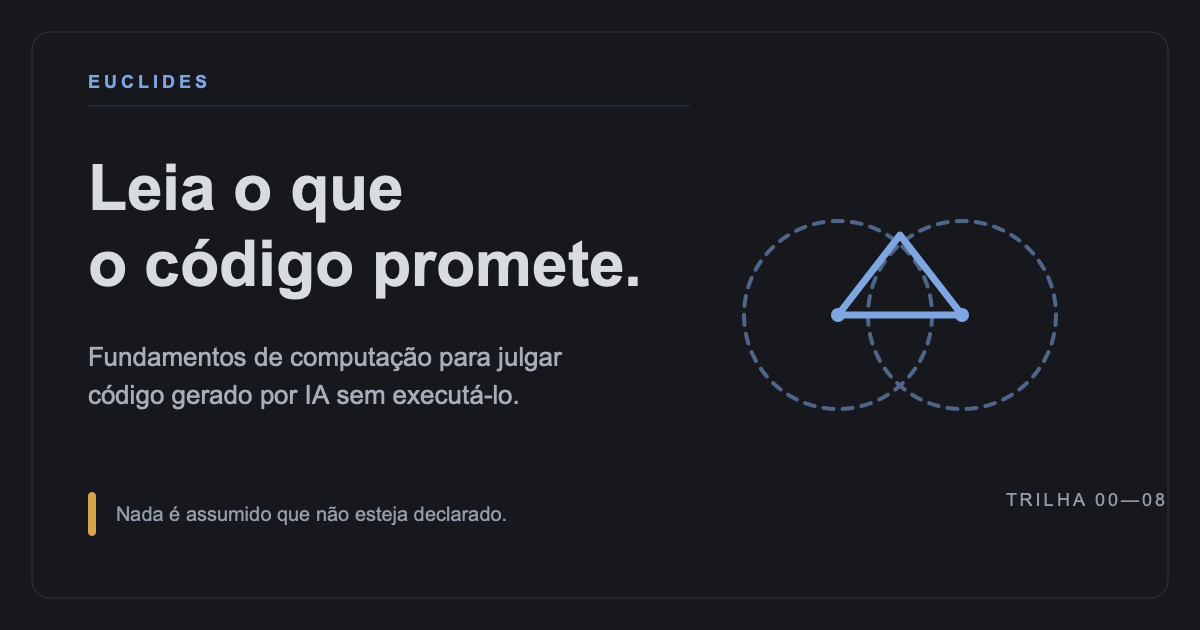
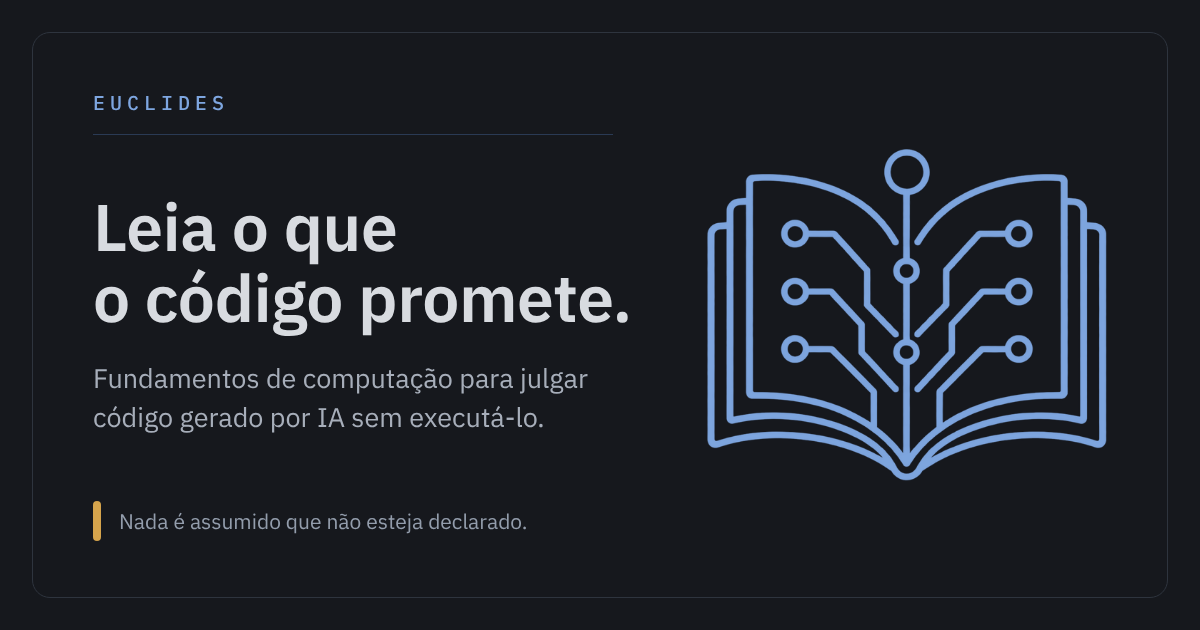
Cartão de compartilhamento e ícone que funcionam fora do app
O og:image apontava para localhost:3000 porque faltava metadataBase.
Ícone em fundo escuro (some em fundo claro), favicon.ico e apple-icon;
cartão 1200x630 com a marca atual; títulos sem travessão.

Claude-Session: https://claude.ai/code/session_01PPjHmTC91UWnFtDjSSkQts

diff --git a/app/layout.tsx b/app/layout.tsx
@@ -2,27 +2,41 @@ import type { Metadata } from 'next'
 import '@xyflow/react/dist/style.css'
 import './globals.css'
 
+/**
+ * O endereço público, para o cartão de compartilhamento. Sem ele o Next escreve
+ * `http://localhost:3000/og-card.png` no `og:image`, e o LinkedIn e o WhatsApp
+ * não acham a imagem. `SITE_URL` sobrescreve; o Railway expõe o domínio no build.
+ */
+const siteUrl =
+  process.env.SITE_URL ??
+  (process.env.RAILWAY_PUBLIC_DOMAIN
+    ? `https://${process.env.RAILWAY_PUBLIC_DOMAIN}`
+    : 'https://euclides-production.up.railway.app')
+
 export const metadata: Metadata = {
+  metadataBase: new URL(siteUrl),
   title: 'Euclides',
   description:
     'Fundamentos de computação para julgar código sem executá-lo. ' +
     'Nada é assumido que não esteja declarado.',
   openGraph: {
-    title: 'Euclides — fundamentos de computação',
+    title: 'Euclides: fundamentos de computação',
     description: 'Uma trilha para julgar código gerado por IA sem executá-lo.',
     type: 'website',
+    siteName: 'Euclides',
+    locale: 'pt_BR',
     images: [
       {
         url: '/og-card.png',
         width: 1200,
         height: 630,
-        alt: 'Euclides — fundamentos de computação para julgar código gerado por IA sem executá-lo.',
+        alt: 'Euclides. Leia o que o código promete: fundamentos de computação para julgar código gerado por IA sem executá-lo.',
       },
     ],
   },
   twitter: {
     card: 'summary_large_image',
-    title: 'Euclides — fundamentos de computação',
+    title: 'Euclides: fundamentos de computação',
     description: 'Uma trilha para julgar código gerado por IA sem executá-lo.',
     images: ['/og-card.png'],
   },

diff --git a/src/components/Mark.tsx b/src/components/Mark.tsx
@@ -1,5 +1,5 @@
 import Image from 'next/image'
 
 export function Mark({ size = 40, className }: { size?: number; className?: string }) {
-  return <Image src="/icon.png" width={size} height={size} alt="Euclides" className={className} />
+  return <Image src="/logo.png" width={size} height={size} alt="Euclides" className={className} />
 }

diff --git a/src/components/Logo.tsx b/src/components/Logo.tsx
@@ -1,5 +1,5 @@
 import Image from 'next/image'
 
 export function Logo({ size = 56 }: { size?: number }) {
-  return <Image src="/icon.png" width={size} height={size} alt="Euclides" />
+  return <Image src="/logo.png" width={size} height={size} alt="Euclides" />
 }
